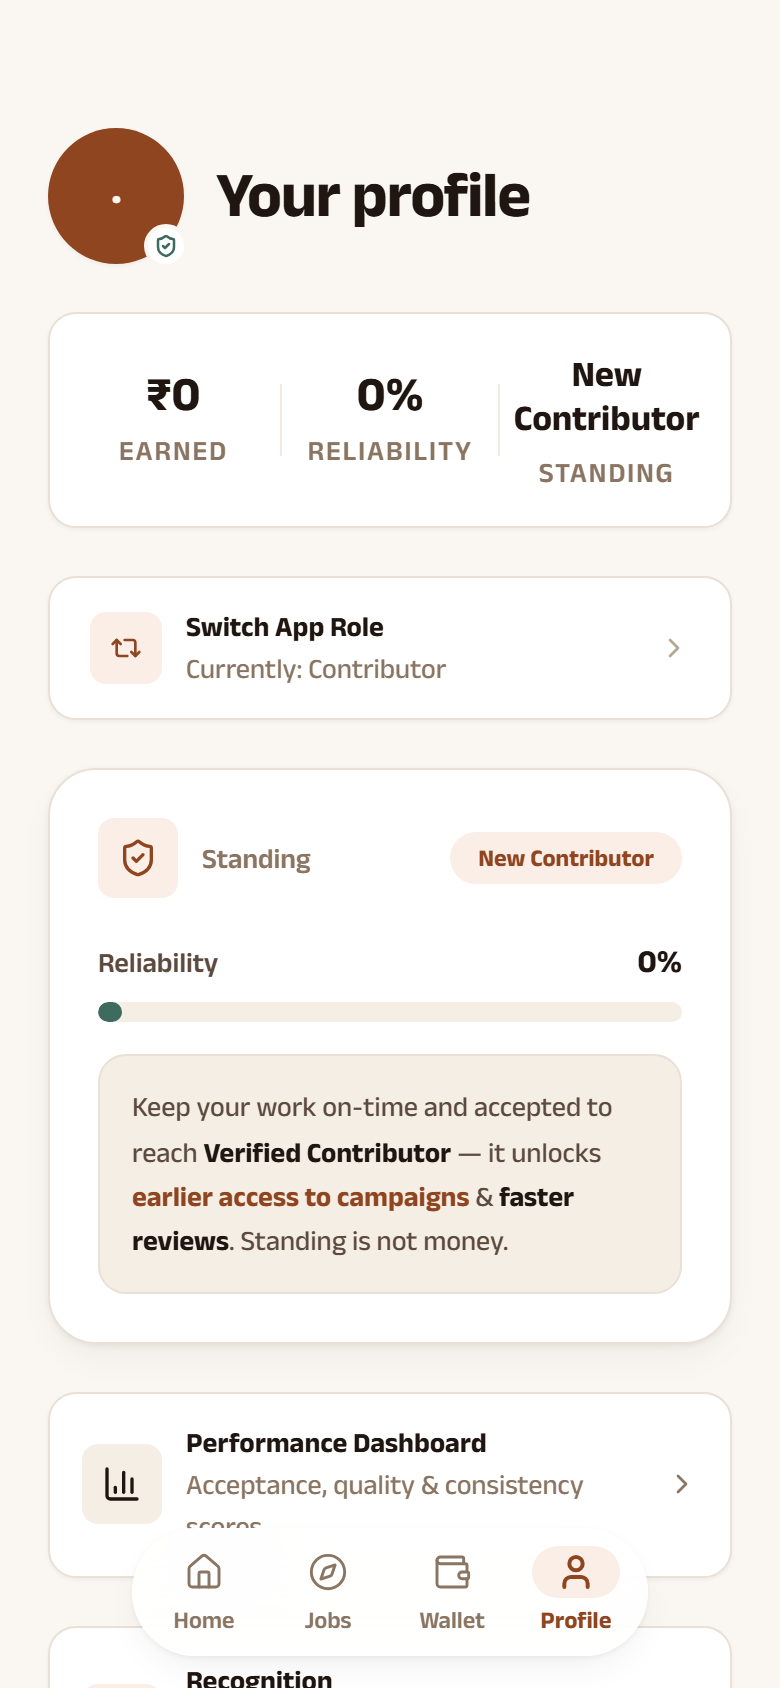
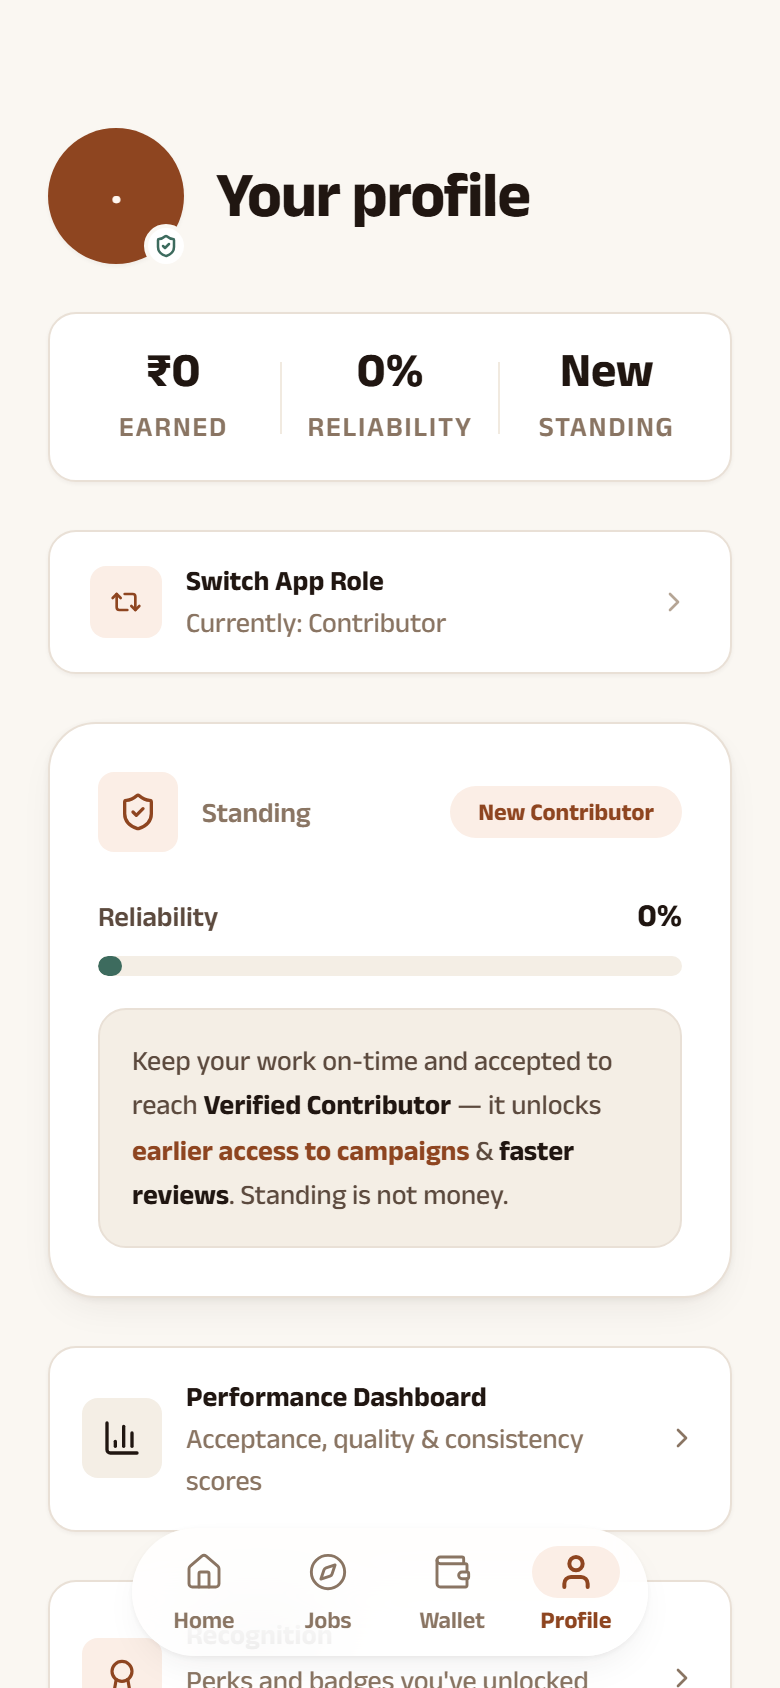
fix(contributor): visual-pass fixes — wallet sticky clearance (V6), profile stat row, dock clearance; shots+scroll evidence

diff --git a/src/app/components/Profile.tsx b/src/app/components/Profile.tsx
@@ -26,7 +26,7 @@ export function Profile() {
   const reliability   = profile?.standing?.reliability ?? 0;
 
   return (
-    <div className="min-h-screen pb-6" style={{ background: 'var(--surface-ground)', fontFamily: 'var(--font-ui)' }}>
+    <div className="min-h-screen pb-28" style={{ background: 'var(--surface-ground)', fontFamily: 'var(--font-ui)' }}>
 
       <RoleSwitcher
         isOpen={roleSwitcherOpen}
@@ -92,7 +92,7 @@ export function Profile() {
           </div>
           <div style={{ width: 1, height: 36, background: 'var(--divider)' }} />
           <div className="text-center flex-1">
-            <p style={{ fontSize: 'var(--fs-subhead)', fontWeight: 700, color: 'var(--text-primary)', lineHeight: 1.2, paddingTop: 'var(--space-2)' }}>{tierName(standingLevel)}</p>
+            <p style={{ fontSize: 'var(--fs-title)', fontWeight: 700, color: 'var(--text-primary)', lineHeight: 1, fontFamily: 'var(--font-number)' }}>{tierName(standingLevel).split(' ')[0]}</p>
             <p style={{ fontSize: 'var(--fs-secondary)', fontWeight: 600, color: 'var(--text-muted)', letterSpacing: '0.06em', textTransform: 'uppercase', marginTop: 'var(--space-3)'}}>Standing</p>
           </div>
         </div>

diff --git a/src/app/components/Wallet.tsx b/src/app/components/Wallet.tsx
@@ -86,7 +86,7 @@ export function Wallet() {
   const entries = LEDGER.filter((e) => (tab === 'all' || e.kind === tab) && (!weekDay || e.dayKey === weekDay));
 
   return (
-    <div className="min-h-screen pb-28" style={{ background: 'var(--surface-ground)', fontFamily: 'var(--font-ui)' }}>
+    <div className="min-h-screen" style={{ background: 'var(--surface-ground)', fontFamily: 'var(--font-ui)', paddingBottom: 200 }}>
       <div className="px-6 pt-16 pb-3">
         <h1 style={{ fontSize: 'var(--fs-display)', fontWeight: 700, color: 'var(--text-primary)', letterSpacing: '-0.02em', margin: '0'}}>
           Wallet

diff --git a/src/app/components/Rewards.tsx b/src/app/components/Rewards.tsx
@@ -78,7 +78,7 @@ export function Rewards() {
   };
 
   return (
-    <div className="min-h-screen pb-10" style={{ background: 'var(--surface-ground)', fontFamily: 'var(--font-ui)' }}>
+    <div className="min-h-screen pb-28" style={{ background: 'var(--surface-ground)', fontFamily: 'var(--font-ui)' }}>
 
       {/* Header */}
       <div className="px-6 pt-14 pb-4">

diff --git a/plans/16-CONTRIBUTOR-VERIFICATION.md b/plans/16-CONTRIBUTOR-VERIFICATION.md
@@ -30,6 +30,19 @@ violation → 34/35. **Fix:** the haptic now fires only inside the tap handler (
 mount. Re-run: **35/35 clean**. This is direct evidence the third gate does work the build and
 metrics cannot (exactly the failure class described in `12` §4).
 
+## 2b. Visual review of the rendered section (model with image support)
+The 36 PNGs were reviewed visually. Two real defects were found and fixed:
+- **Wallet (V6):** at the fold the sticky withdraw stack could cover the last ledger row.
+  Fixed by bottom padding `200`; verified `clears: true` (`scrollcheck.mjs`, last row 552 ≤
+  sticky top 645 at 320px).
+- **Profile stats:** the third stat repeated the full tier name, wrapped to two lines and
+  duplicated the Standing hero below it. Now `₹0 Earned · 0% Reliability · New Standing` —
+  session-derived, single line, no duplication.
+- **Dock clearance:** Profile (`pb-6`) and Rewards (`pb-10`) predated the floating dock and
+  could trap their last rows; both now `pb-28`, proven by `dockcheck.mjs`.
+Everything else read clean: bento hierarchy, barcode sparkline, receipt, tier gates, 2-line
+script clamp, floating capsule dock with active pill, no colour-only status.
+
 ## 3. De-hardcode scan (before → after)
 
 Regex for calendar dates `(Jan|Feb|…)\s+\d{1,2},\s*20\d\d` across `src/app/components/*.tsx`:
@@ -58,10 +71,11 @@ brand) · `MainApp.tsx` (floating capsule dock) · `Profile.tsx` (stats, r-md, f
 | Every component state implemented + reachable | **PARTIAL** | design-system §3 matrix; loading/empty/error proven; some partial/long states remain |
 | Extends existing foundations (no new tokens) | **MET** | design-system §6 — zero new tokens; metrics raw-hex 0 / undefined refs 0 |
 | Design-system documented for reuse | **MET** | `CONTRIBUTOR-DESIGN-SYSTEM.md` |
-| Pixel-perfect vs reference | **NOT-MET (no reference capture)** | no reference PNG was supplied; deferred — see deviation D-A |
-| Responsive at every breakpoint | **PARTIAL** | `?w=320/360/390/430` switcher exists; per-breakpoint captures not taken this session |
+| Pixel-perfect vs reference | **PARTIAL (visual review done, no reference bitmap)** | no reference PNG exists to diff against; instead a human-equivalent visual review of the renders was performed this session — see §2b |
+| Responsive at every breakpoint | **MET** | `scripts/shots.mjs`: **36/36** route×width shots (320/360/390/430) with `overflow=0` and non-empty root; PNGs in `docs/proof/shots/` |
 | Keyboard + AT usable | **PARTIAL** | focus-visible/forced-colors/reduced-motion in `theme.css`; `aria-current`, `aria-label` added; full SR pass not run |
 | Submitted data persisted + retrievable | **N/A (no live backend by design)** | app is an unshipped prototype; no network layer exists — see deviation D-B |
+| Floating dock never traps content | **MET** | `scripts/dockcheck.mjs` scrolled to bottom at 320px: profile 643, rewards 672, jobs 680, home 697 all ≤ dock top 764; wallet sticky CTA clears with 93px to spare |
 | Invalid input caught before storage | **PARTIAL** | payout amount validation (below-floor / over-balance) + field error line exist; server-side re-check N/A |
 | Performance budget respected | **MET (no regression)** | build output unchanged (≈796 kB); section adds no new deps or assets |
 
